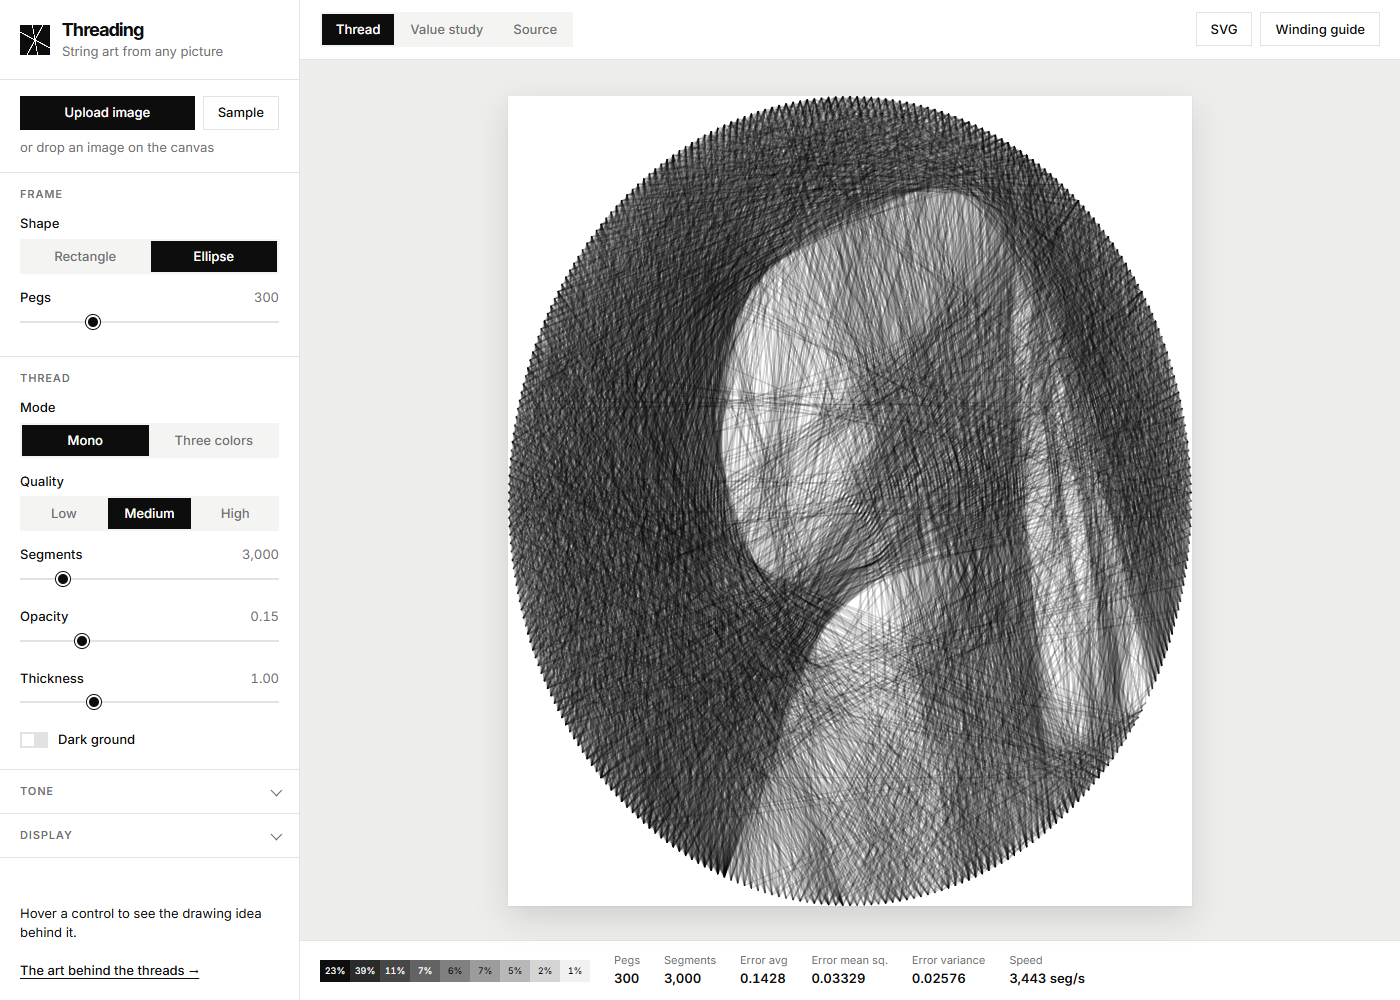
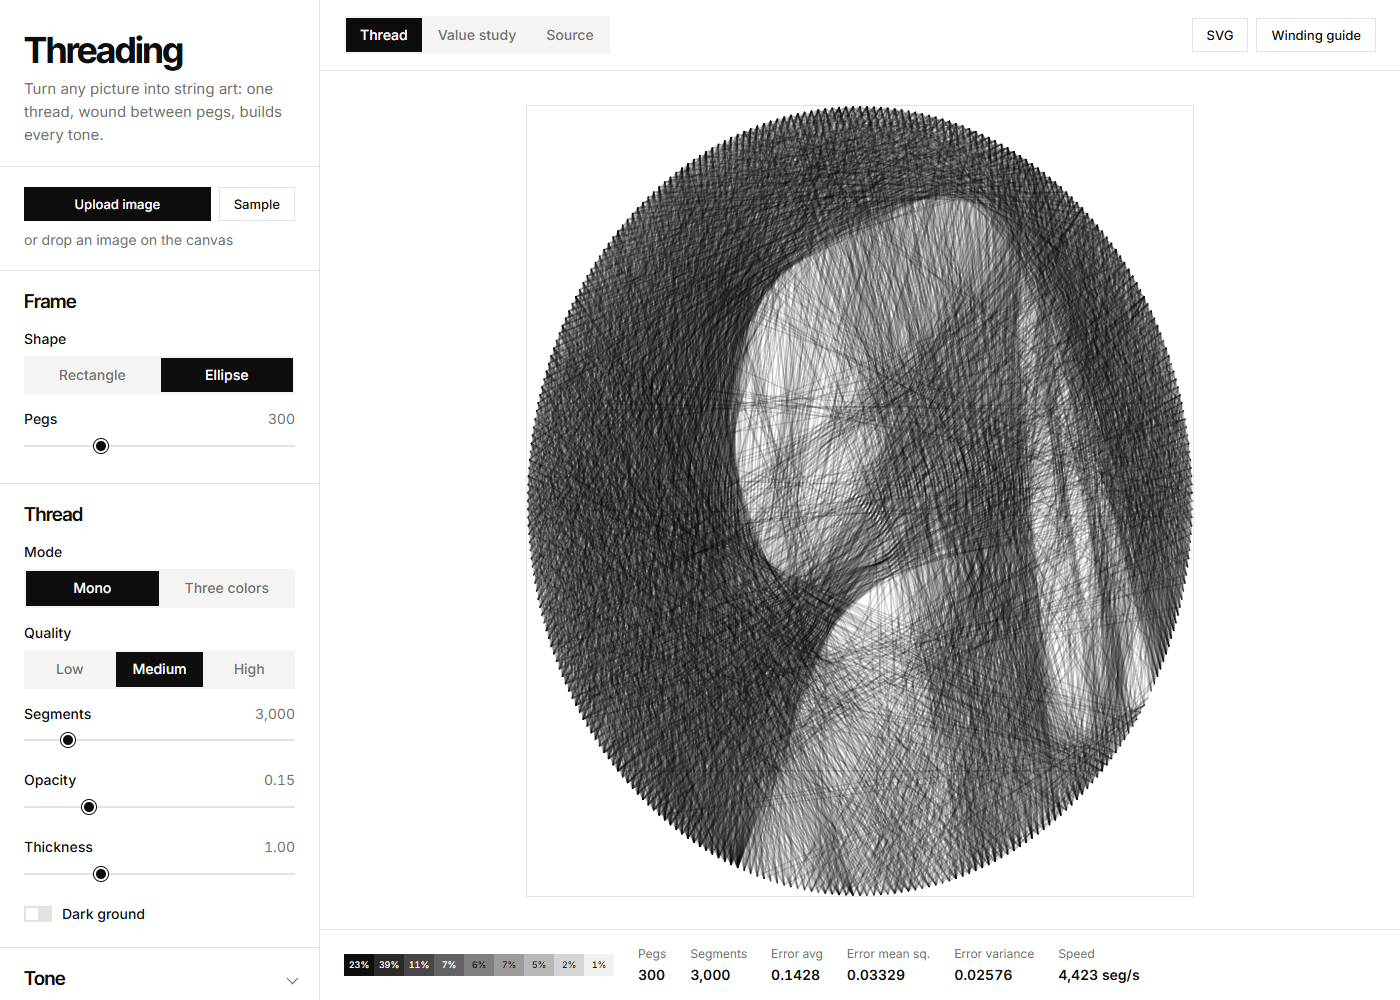
Match the tool's look to the art page
White page, large Inter Tight title and lede, sentence-case section headings, art note boxed like the page's notes, thin-line canvas frame instead of a shadow.

diff --git a/src/ui/style.css b/src/ui/style.css
@@ -1,5 +1,6 @@
 :root {
-  --bg: #ededeb;
+  /* Same palette as the art page (src/about/about.css). */
+  --bg: #ffffff;
   --panel: #ffffff;
   --ink: #0d0d0d;
   --muted: #707070;
@@ -7,7 +8,6 @@
   --field: #f4f4f3;
   --accent: #2337ff;
   --on-ink: #ffffff;
-  --shadow: 0 1px 2px rgba(0, 0, 0, 0.06), 0 12px 32px rgba(0, 0, 0, 0.12);
   --sans: Inter, system-ui, -apple-system, "Segoe UI", sans-serif;
   --display: "Inter Tight", Inter, system-ui, sans-serif;
   color-scheme: light;
@@ -16,14 +16,13 @@
 @media (prefers-color-scheme: dark) {
   :root {
     --bg: #0b0b0c;
-    --panel: #141416;
+    --panel: #0b0b0c;
     --ink: #f2f2f2;
     --muted: #8e8e93;
     --line: #26262a;
-    --field: #1c1c1f;
+    --field: #161618;
     --accent: #7584ff;
     --on-ink: #0b0b0c;
-    --shadow: 0 1px 2px rgba(0, 0, 0, 0.4), 0 12px 32px rgba(0, 0, 0, 0.5);
     color-scheme: dark;
   }
 }
@@ -35,7 +34,7 @@ html, body { margin: 0; height: 100%; }
 body {
   background: var(--bg);
   color: var(--ink);
-  font: 13px/1.45 var(--sans);
+  font: 14px/1.6 var(--sans);
   -webkit-font-smoothing: antialiased;
 }
 
@@ -44,7 +43,7 @@ a:hover { color: var(--accent); }
 
 .app {
   display: grid;
-  grid-template-columns: 300px 1fr;
+  grid-template-columns: 320px 1fr;
   min-height: 100vh;
 }
 
@@ -61,43 +60,33 @@ a:hover { color: var(--accent); }
   flex-direction: column;
 }
 
+/* Header, set like the art page title and lede. */
 .brand {
-  display: flex;
-  align-items: center;
-  gap: 12px;
-  padding: 20px 20px 18px;
-  border-bottom: 1px solid var(--line);
-}
-
-.mark {
-  width: 30px;
-  height: 30px;
-  flex: none;
-  background:
-    linear-gradient(28deg, transparent 48.5%, var(--on-ink) 49%, var(--on-ink) 51%, transparent 51.5%),
-    linear-gradient(-62deg, transparent 48.5%, var(--on-ink) 49%, var(--on-ink) 51%, transparent 51.5%),
-    linear-gradient(80deg, transparent 48.5%, var(--on-ink) 49%, var(--on-ink) 51%, transparent 51.5%),
-    var(--ink);
+  padding: 32px 24px 20px;
 }
 
 .brand h1 {
-  font: 700 18px/1.1 var(--display);
-  letter-spacing: -0.02em;
-  margin: 0;
+  font: 700 36px/1.02 var(--display);
+  letter-spacing: -0.035em;
+  margin: 0 0 8px;
 }
 
-.tagline { margin: 2px 0 0; color: var(--muted); }
+.tagline {
+  margin: 0;
+  font-size: 15px;
+  line-height: 1.55;
+  color: var(--muted);
+}
 
 .block {
-  padding: 16px 20px 6px;
-  border-bottom: 1px solid var(--line);
+  padding: 20px 24px 8px;
+  border-top: 1px solid var(--line);
 }
 
 h2 {
-  font: 600 11px/1 var(--sans);
-  text-transform: uppercase;
-  letter-spacing: 0.08em;
-  color: var(--muted);
+  font: 600 19px/1.2 var(--display);
+  letter-spacing: -0.02em;
+  color: var(--ink);
   margin: 0 0 14px;
 }
 
@@ -282,14 +271,16 @@ select {
 
 /* Note */
 
+/* Boxed like the "In the tool" notes on the art page. */
 .note {
-  margin-top: auto;
-  padding: 16px 20px 20px;
-  color: var(--muted);
+  margin: 20px 24px 28px;
+  padding: 14px 18px;
+  background: var(--field);
+  border-left: 2px solid var(--accent);
 }
 
-.note p { margin: 0 0 10px; min-height: 3.6em; color: var(--ink); }
-.note a { font-weight: 500; }
+.note p { margin: 0 0 10px; min-height: 4.8em; }
+.note a { font-weight: 500; font-size: 13px; }
 
 /* Stage */
 
@@ -305,8 +296,7 @@ select {
   justify-content: space-between;
   align-items: center;
   gap: 12px;
-  padding: 12px 20px;
-  background: var(--panel);
+  padding: 16px 24px;
   border-bottom: 1px solid var(--line);
   flex-wrap: wrap;
 }
@@ -331,7 +321,7 @@ select {
 .frame {
   position: relative;
   line-height: 0;
-  box-shadow: var(--shadow);
+  outline: 1px solid var(--line);
   max-width: 100%;
   max-height: 100%;
 }
@@ -339,7 +329,7 @@ select {
 .frame canvas {
   display: block;
   max-width: 100%;
-  max-height: calc(100vh - 190px);
+  max-height: calc(100vh - 210px);
   width: auto;
   height: auto;
 }
@@ -373,8 +363,7 @@ select {
   display: flex;
   align-items: center;
   gap: 24px;
-  padding: 12px 20px;
-  background: var(--panel);
+  padding: 14px 24px;
   border-top: 1px solid var(--line);
   flex-wrap: wrap;
 }
@@ -399,7 +388,7 @@ select {
   flex-wrap: wrap;
 }
 
-.stats dt { color: var(--muted); font-size: 11px; }
+.stats dt { color: var(--muted); font-size: 12px; }
 .stats dd { margin: 0; font-weight: 600; font-variant-numeric: tabular-nums; }
 
 @media (max-width: 800px) {
@@ -411,5 +400,6 @@ select {
   .frame canvas { max-height: 65vh; }
   .under { padding: 12px 16px; gap: 12px; }
   .scale { grid-template-columns: repeat(9, 1fr); width: 100%; }
-  .block, .brand, .note { padding-left: 16px; padding-right: 16px; }
+  .block, .brand { padding-left: 16px; padding-right: 16px; }
+  .note { margin-left: 16px; margin-right: 16px; }
 }

diff --git a/index.html b/index.html
@@ -14,11 +14,8 @@
     <div class="app">
       <aside class="panel" id="panel">
         <header class="brand">
-          <div class="mark" aria-hidden="true"></div>
-          <div>
-            <h1>Threading</h1>
-            <p class="tagline">String art from any picture</p>
-          </div>
+          <h1>Threading</h1>
+          <p class="tagline">Turn any picture into string art: one thread, wound between pegs, builds every tone.</p>
         </header>
 
         <section class="block">
